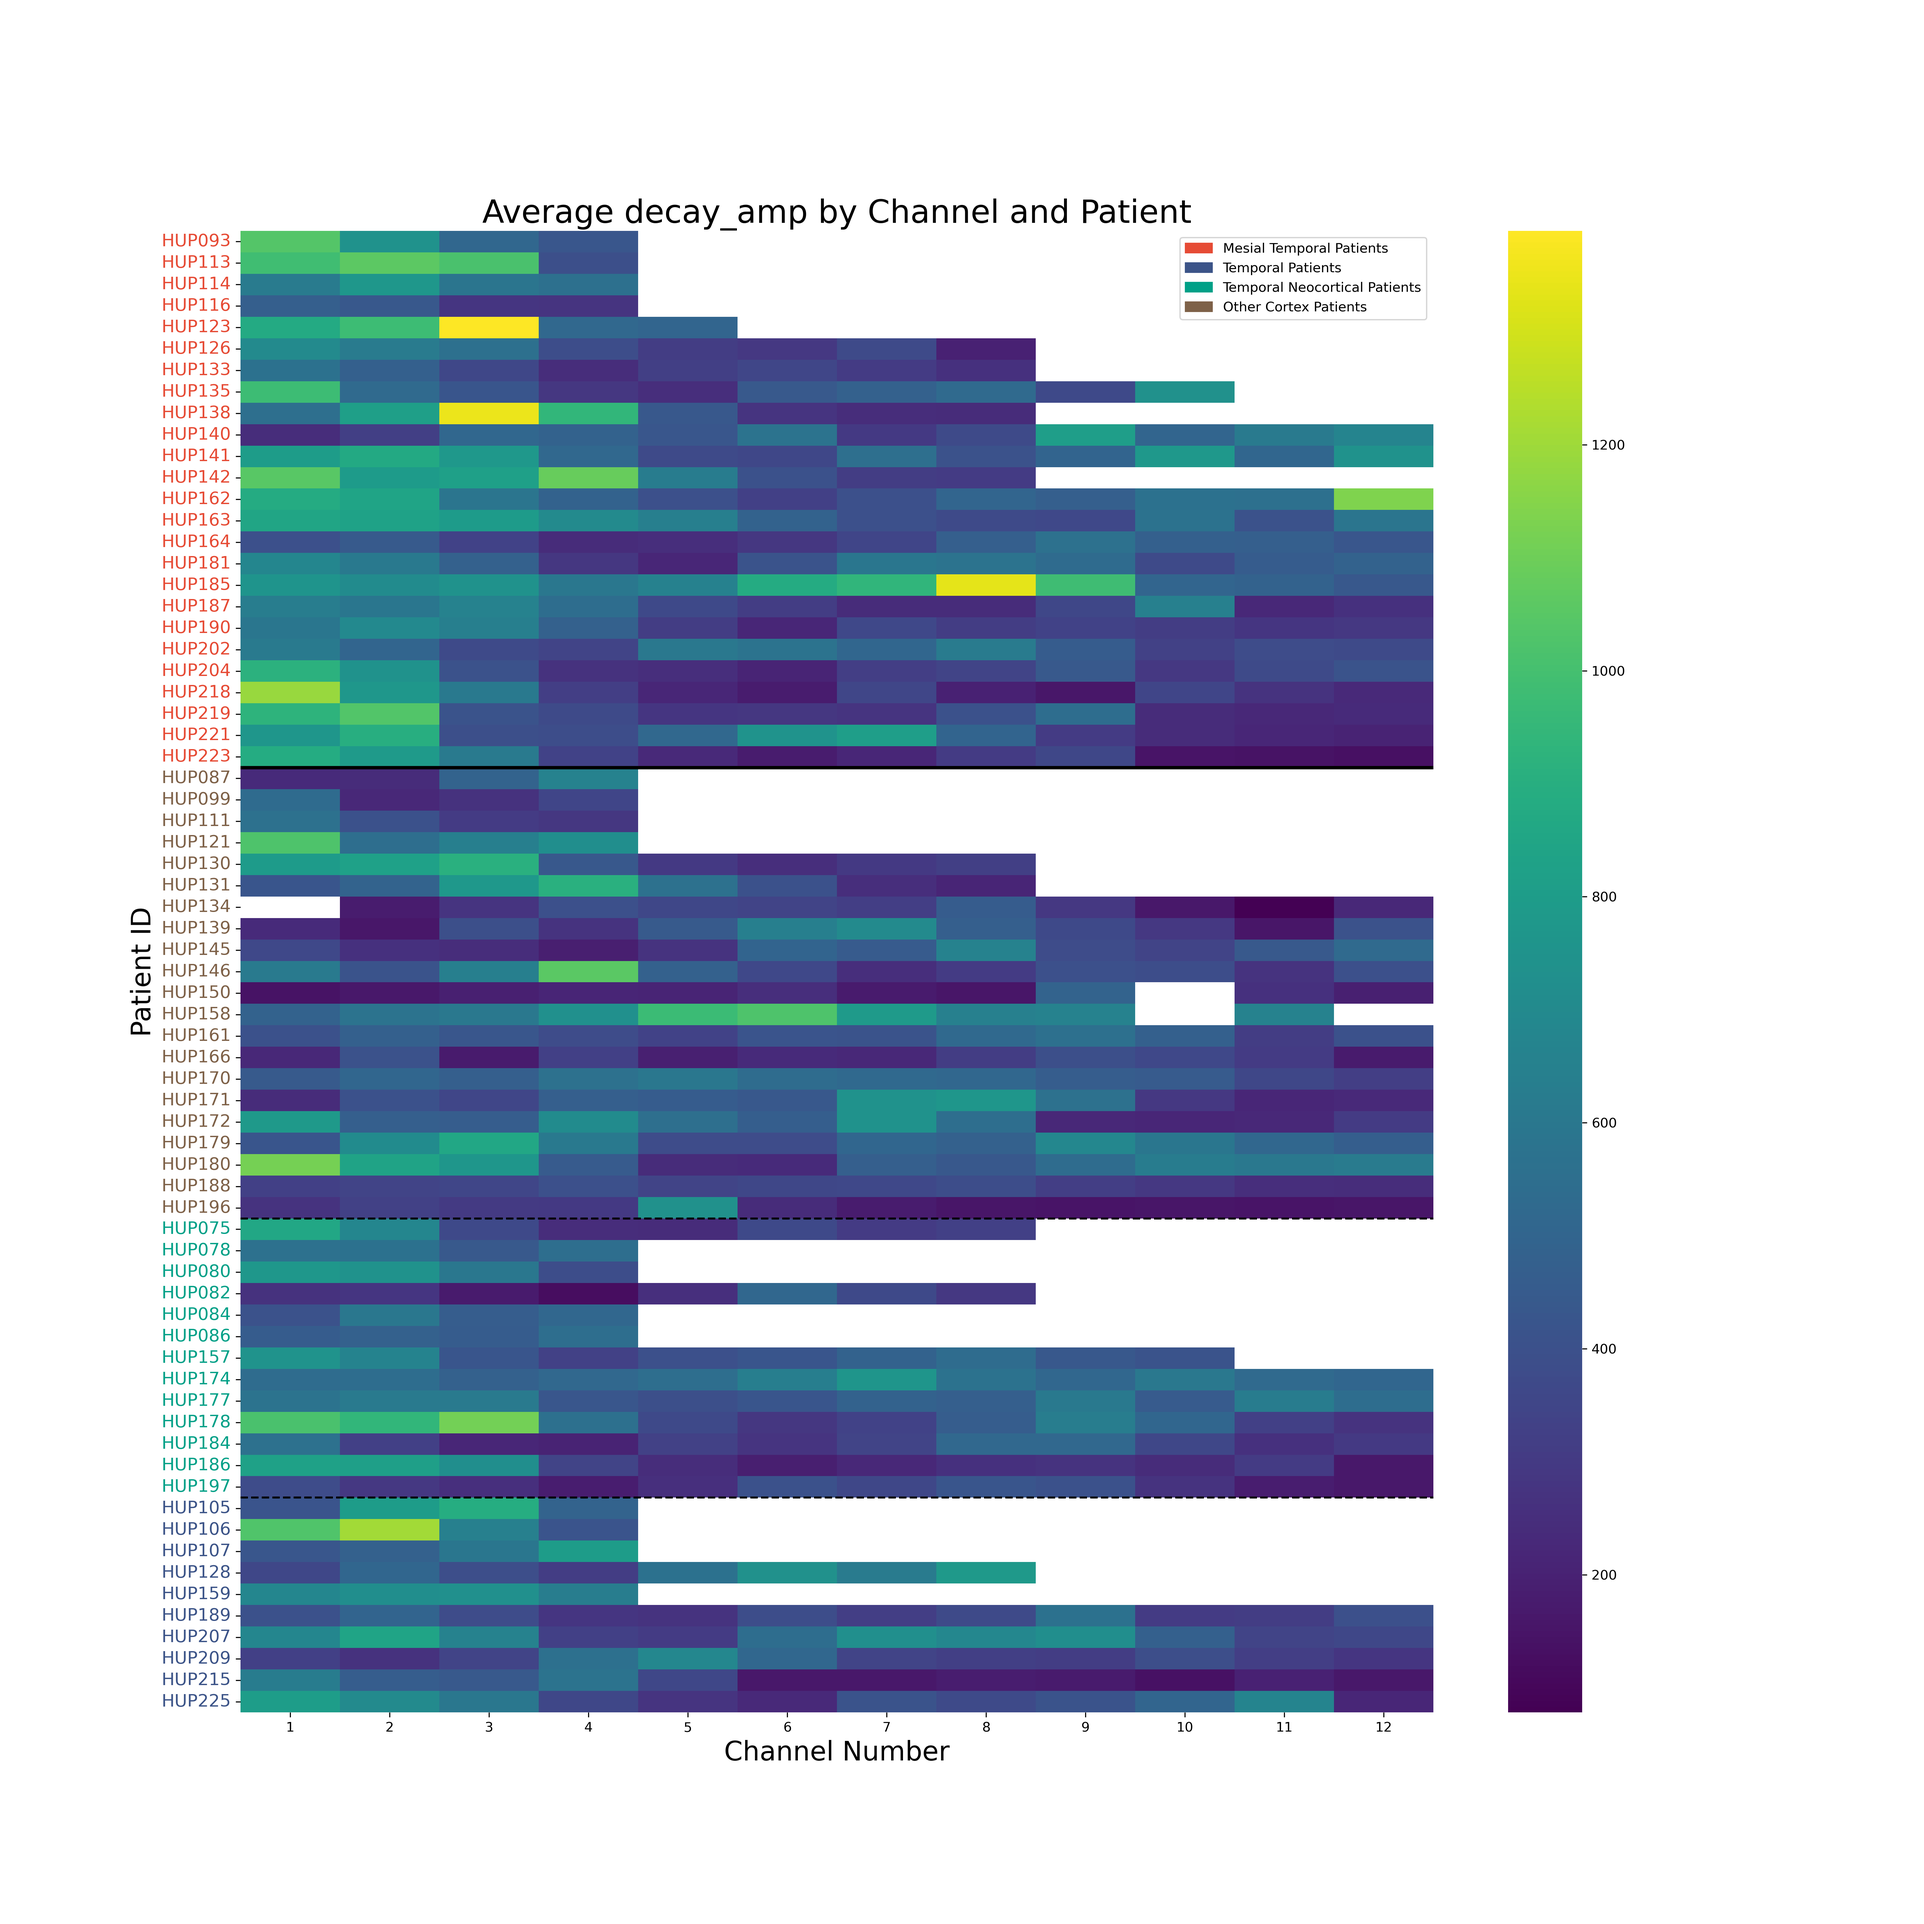
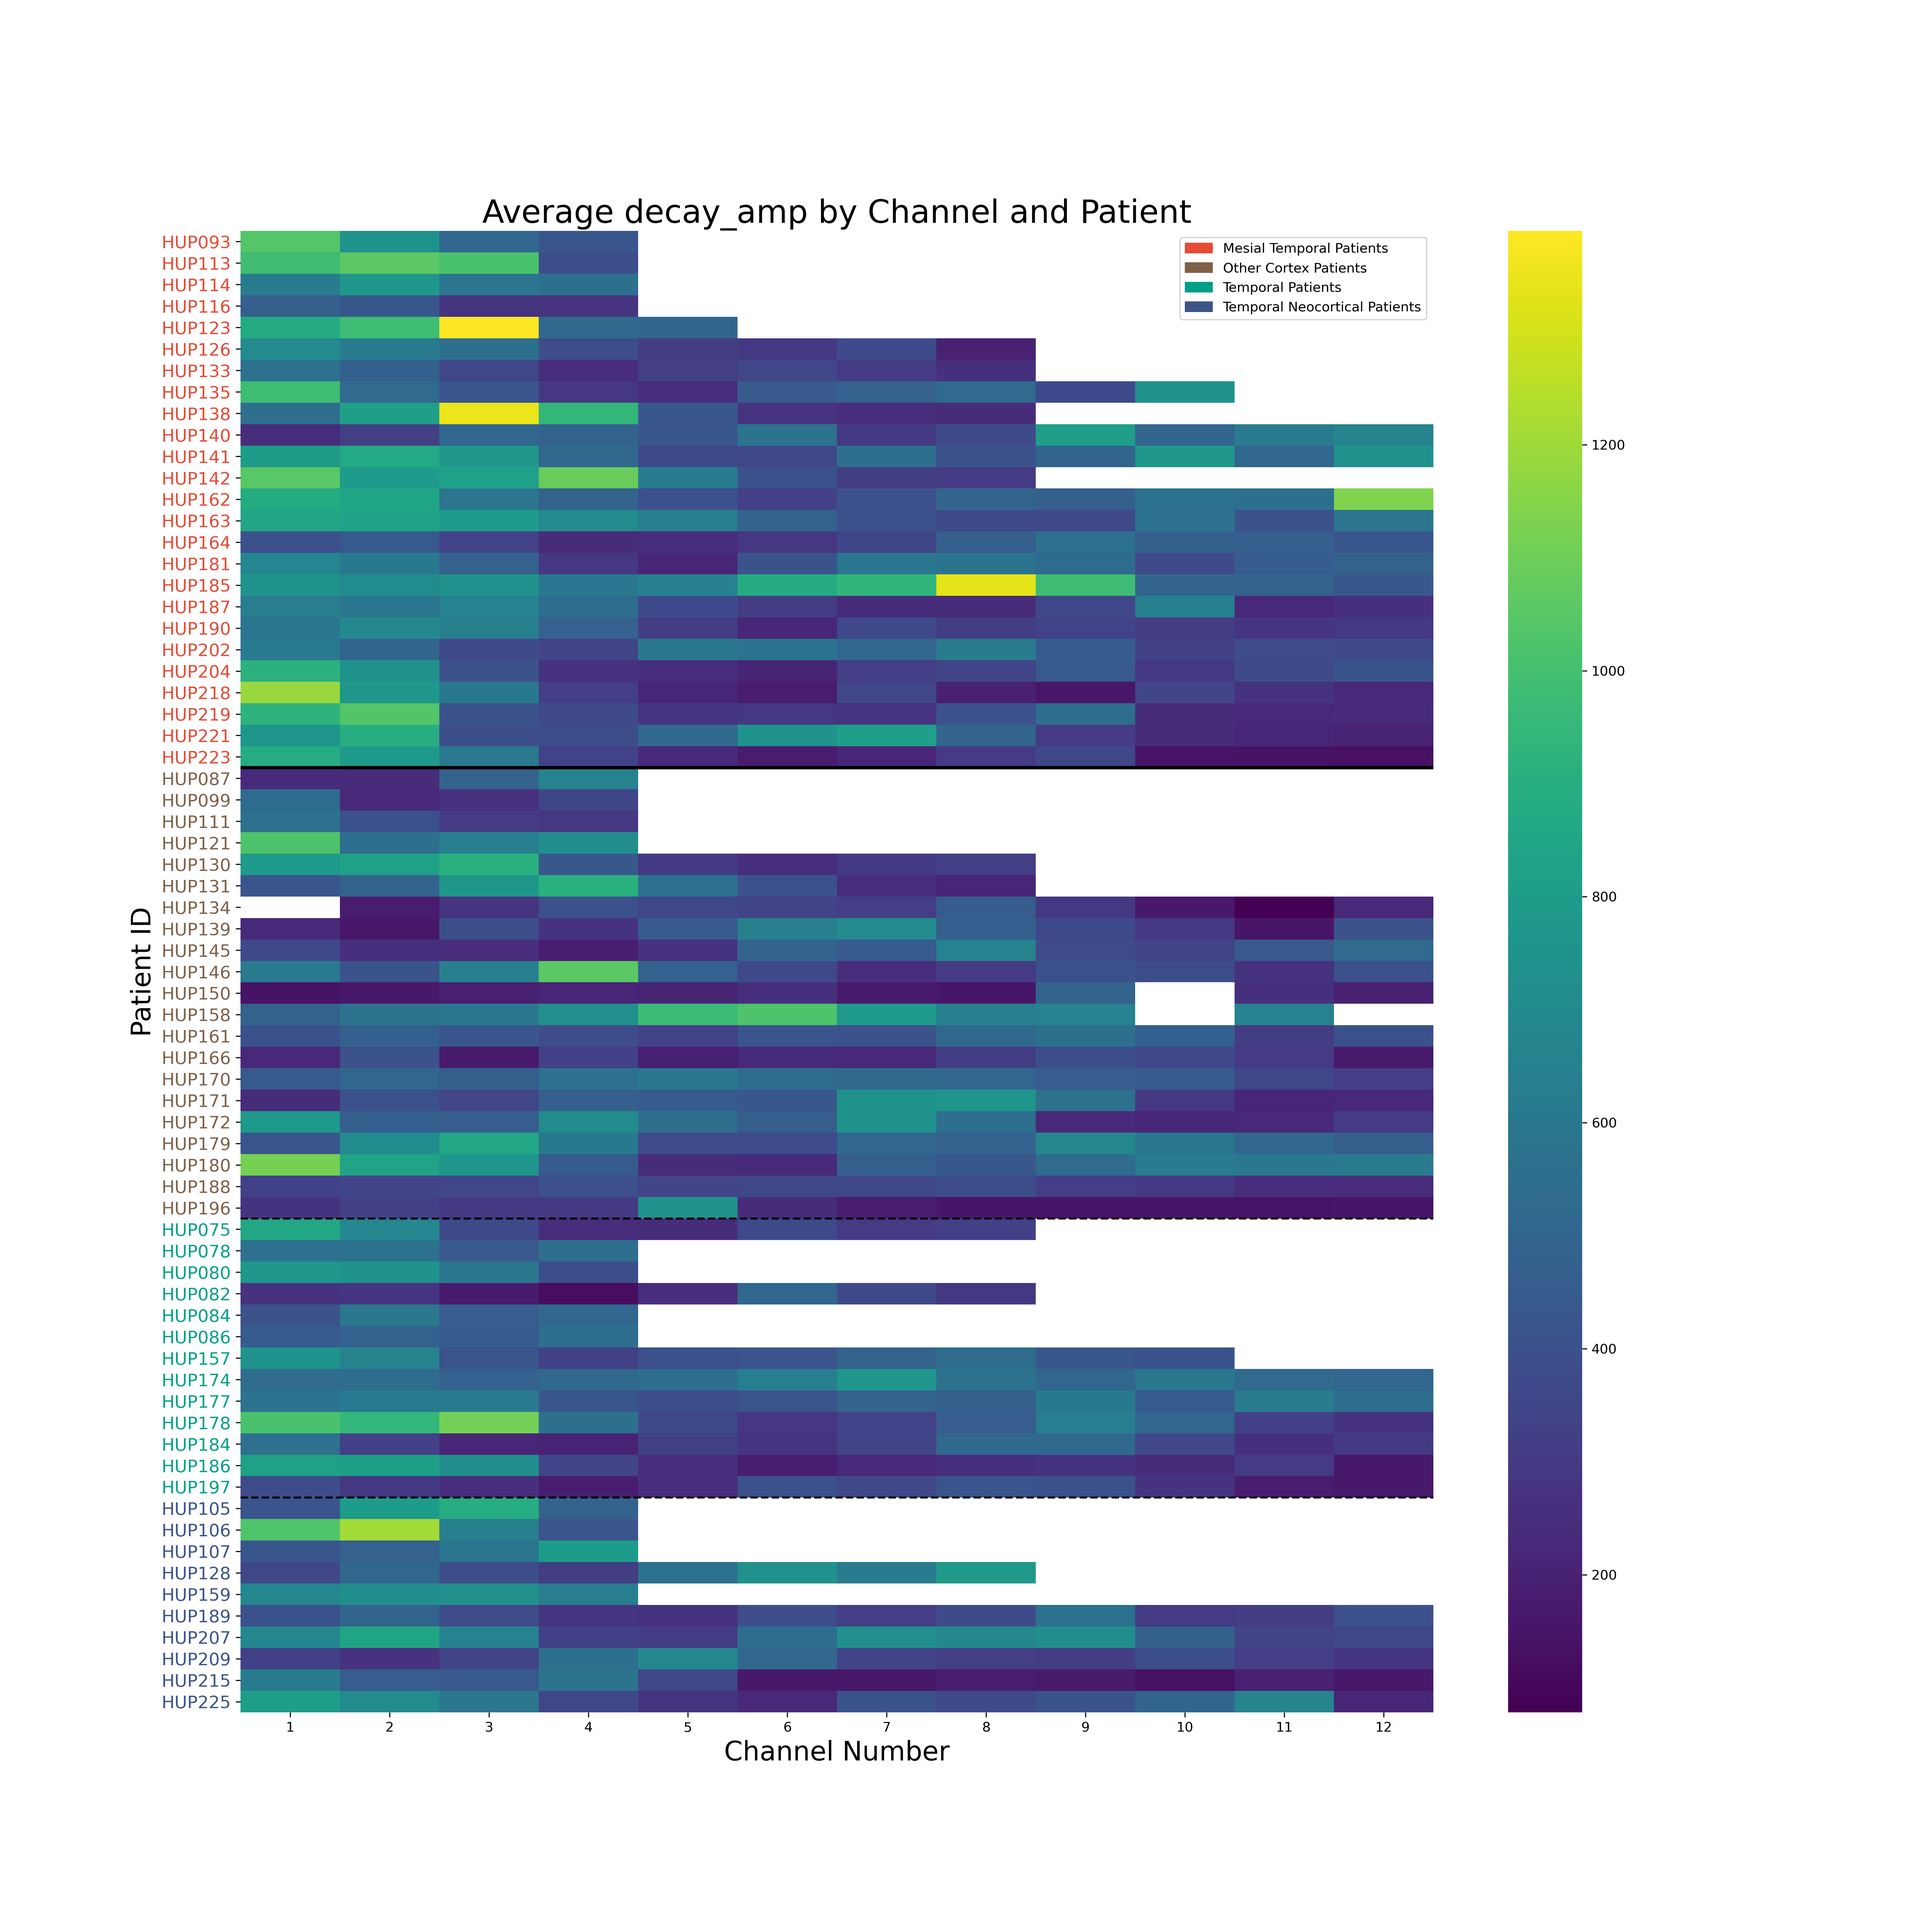
fixed plots for same elecs per side

Changed region(s): [[0.0935, 0.1247, 0.1247, 0.9038], [0.6545, 0.1247, 0.7168, 0.1558]]

diff --git a/HUMAN/working_feat_extract_code/5-propagation/soz_analysis.py b/HUMAN/working_feat_extract_code/5-propagation/soz_analysis.py
@@ -259,7 +259,7 @@ plt.show()
 # %%
 #only using the same side electrodes as the SOZ laterality
 
-Feat_of_interest = 'decay_amp'
+Feat_of_interest = 'spike_rate'
 take_spike_leads = False
 
 ####################
@@ -401,7 +401,7 @@ temporal_patch = mpatches.Patch(color='#00A087FF', label='Temporal Patients')
 neocort_patch = mpatches.Patch(color='#3C5488FF', label='Temporal Neocortical Patients')
 
 plt.legend(handles=[mesial_patch, other_patch, temporal_patch, neocort_patch], loc='upper right')
-plt.savefig(f'figures/sameside_perSOZ/{Feat_of_interest}_allptsbySOZ.png.png', dpi = 300)
+plt.savefig(f'figures/sameside_perSOZ/{Feat_of_interest}_allptsbySOZ.png', dpi = 300)
 plt.show()
 
 # all_spikes_avg.to_csv(f'/mnt/leif/littlab/users/aguilac/Interictal_Spike_Analysis/HUMAN/working_feat_extract_code/5-propagation/dataset/gradient_data/{Feat_of_interest}.csv')
@@ -430,7 +430,6 @@ bilateral_spikes = bilateral_spikes.drop(['engel','hup_id','name','spike_rate'],
 bilateral_spikes = bilateral_spikes.rename(columns={'clinic_SOZ':'SOZ'})
 
 all_spikes = pd.concat([all_spikes, bilateral_spikes], axis=0).reset_index(drop=True)
-
 
 #flag that says we want spike leaders only
 if take_spike_leads == True:
@@ -511,7 +510,6 @@ if ('latency' in Feat_of_interest) | (Feat_of_interest == 'seq_spike_time_diff')
     all_spikes_avg = all_spikes_avg.drop('HUP215')
     all_spikes_avg = all_spikes_avg.drop('HUP099')
 
-#%%
 ####################
 # 3. Plot Heatmaps #
 ####################
@@ -571,7 +569,7 @@ neocort_patch = mpatches.Patch(color='#3C5488FF', label='Temporal Neocortical Pa
 
 plt.legend(handles=[mesial_patch, other_patch, temporal_patch, neocort_patch], loc='upper right')
 
-plt.savefig(f'figures/sameside_perSOZ/bilateral/{Feat_of_interest}_allptsbySOZ.png.png', dpi = 300)
+plt.savefig(f'figures/sameside_perSOZ/bilateral/{Feat_of_interest}_allptsbySOZ.png', dpi = 300)
 plt.show()
 
 

diff --git a/HUMAN/working_feat_extract_code/5-propagation/ML.py b/HUMAN/working_feat_extract_code/5-propagation/ML.py
@@ -302,7 +302,7 @@ plt.ylabel("True Label")
 
 #ONLY SPIKE RATE
 
-all_feats = spearman_df[['SOZ','pt_id','sharpness_spearman_corr']]
+all_feats = pearson_df[['SOZ','pt_id','spike_rate_pearson_corr']]
 
 #Split the data according to IDs 
 #from all_feats dataframe, get the unique id's
@@ -337,7 +337,7 @@ for train_ix, test_ix in LOO.split(unique_ids):
 
     # fit model
     # rfc = RandomForestClassifier(n_estimators = 100, random_state = 42, max_depth = None).fit(X_train, y_train)
-    rfc = LogisticRegression().fit(X_train, y_train)
+    rfc = LogisticRegression(penalty = 'l2', solver = 'liblinear', l1_ratio = 0.5).fit(X_train, y_train)
 
     # evaluate model
     yhat = rfc.predict(X_test)
